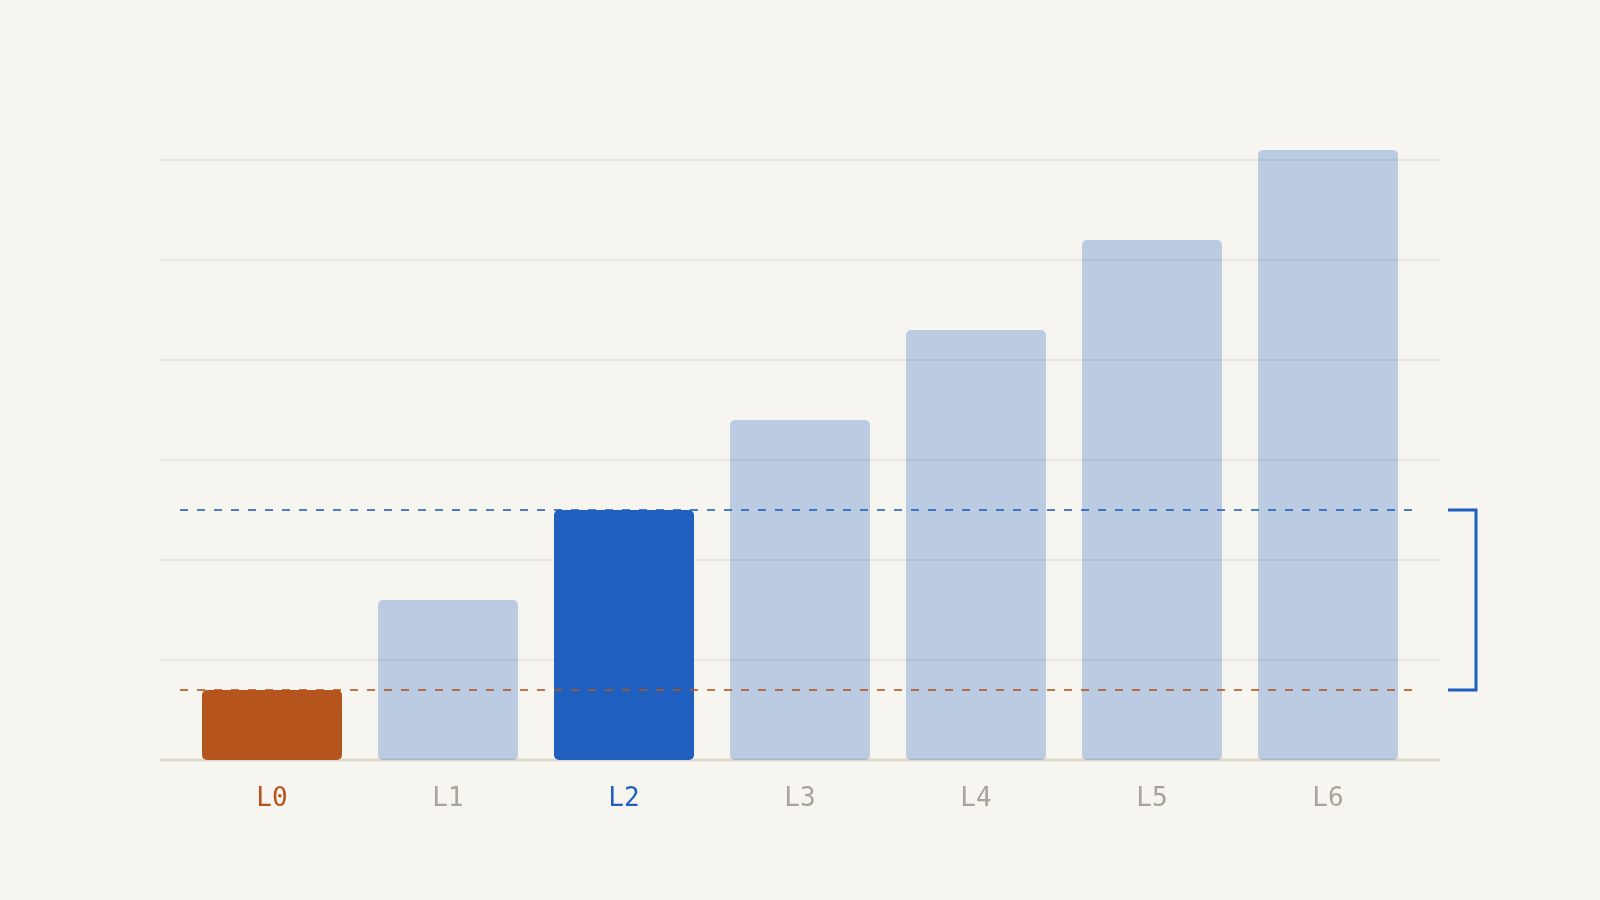
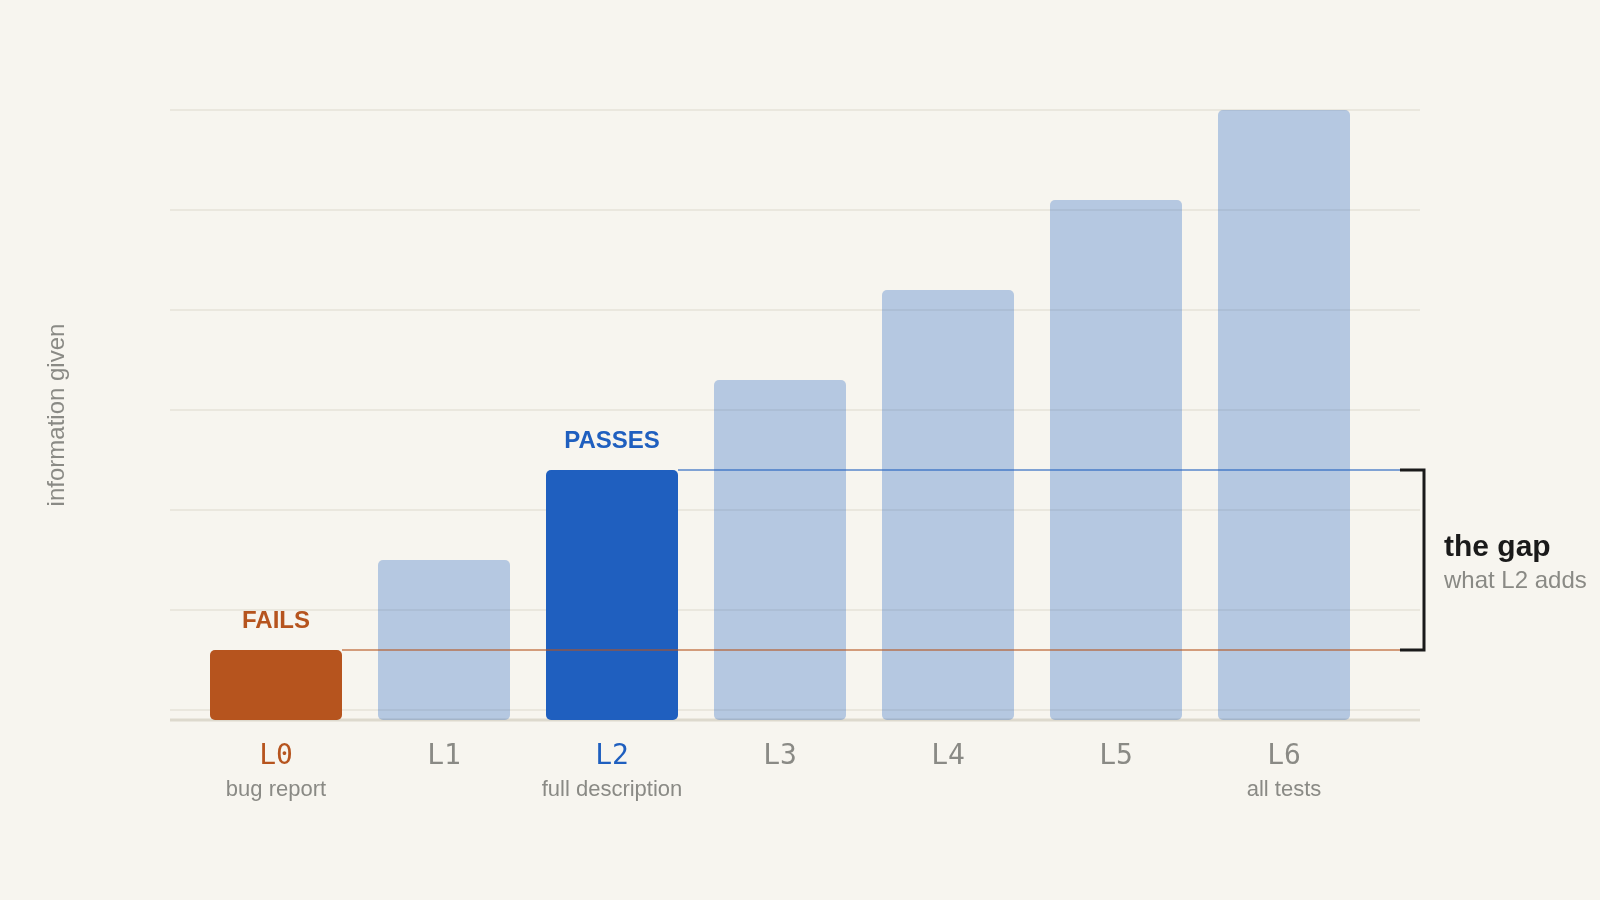
Annotate the hero, move the gap label clear, confine costs to one section
Hero now carries FAILS, PASSES, the gap bracket, per-level sublabels and the
axis label, so it explains itself as a share image instead of reading as bare
bars.

Figure 1: the gap bracket sat over the L3 bar. Widened the viewBox to 812 and
moved the bracket and label past the last bar, so it clearly measures the two
colored reference lines.

Costs now live only in "What it cost to produce". Removed the token and dollar
figures from the summary and the pricing aside from the conclusion.

Stated the token convention explicitly: 2.32 billion tokens of which 2.24
billion were cache reads. n_cache_tokens is a subset of n_input_tokens, which
a least-squares fit of cost against the three counts confirms: treating cache
as additive prices cached tokens at -$0.29/M, while treating it as a subset
gives $0.49/M fresh, $0.20/M cached, $2.44/M output at R2 0.99998.

Changed region(s): [[0.125, 0.1244, 1.0, 0.9022], [0.0312, 0.3733, 0.0625, 0.56], [0.9062, 0.7467, 0.9375, 0.7778]]

diff --git a/src/writings/difficulty-is-an-information-gap.md b/src/writings/difficulty-is-an-information-gap.md
@@ -37,8 +37,7 @@ behavior those tests check. Keep the task when the first fails and the second pa
 Those two runs are the product. The failure shows the task is hard. The pass shows it is solvable
 as written. One prompt cannot show both, and every comparable generation pipeline uses one prompt.
 
-Stage 1 is Go, nine repositories, self-funded: 527 tasks authored, 1,239 runs, 2.32 billion tokens, $519,
-139 certified so far.
+Stage 1 is Go, nine repositories, self-funded: 527 tasks authored and 139 certified so far.
 
 ## The information gap
 
@@ -59,7 +58,7 @@ level is visible. Seven levels, because that is how many distinct kinds of help 
 actually use, ordered from the least specific to the most.
 
 <figure class="fig-inline">
-<svg viewBox="0 0 720 348" role="img" aria-label="Seven ascending bars labelled L0 to L6 showing how much the model is told. L0, a bug report, is marked fails. L2, a full description, is marked passes. A bracket between their tops is labelled the gap.">
+<svg viewBox="0 0 812 348" role="img" aria-label="Seven ascending bars labelled L0 to L6 showing how much the model is told. L0, a bug report, is marked fails. L2, a full description, is marked passes. A bracket at the right measures the distance between their tops and is labelled the gap.">
 <rect x="60" y="256" width="84" height="26" rx="4" fill="var(--chart-2)" opacity="1"><title>L0</title></rect>
 <rect x="150" y="224" width="84" height="58" rx="4" fill="var(--chart-mute)" opacity="0.42"><title>L1</title></rect>
 <rect x="240" y="192" width="84" height="90" rx="4" fill="var(--chart-1)" opacity="1"><title>L2</title></rect>
@@ -67,12 +66,13 @@ actually use, ordered from the least specific to the most.
 <rect x="420" y="128" width="84" height="154" rx="4" fill="var(--chart-mute)" opacity="0.42"><title>L4</title></rect>
 <rect x="510" y="96" width="84" height="186" rx="4" fill="var(--chart-mute)" opacity="0.42"><title>L5</title></rect>
 <rect x="600" y="64" width="84" height="218" rx="4" fill="var(--chart-mute)" opacity="0.42"><title>L6</title></rect>
-<line x1="60" y1="282" x2="700" y2="282" stroke="var(--line)" stroke-width="1.5"/>
-<line x1="144" y1="256" x2="352" y2="256" stroke="var(--chart-2)" stroke-width="1.5" opacity="0.65"/>
-<line x1="324" y1="192" x2="352" y2="192" stroke="var(--chart-1)" stroke-width="1.5" opacity="0.65"/>
-<path d="M352 256 L362 256 L362 192 L352 192" fill="none" stroke="var(--text-2)" stroke-width="1.5"/>
-<text x="374" y="223" fill="var(--text)" font-size="13" font-weight="700" font-family="var(--font-sans)">the gap</text>
-<text x="374" y="240" fill="var(--text-3)" font-size="12" font-family="var(--font-sans)">what L2 adds</text>
+<line x1="60" y1="282" x2="690" y2="282" stroke="var(--line)" stroke-width="1.5"/>
+<line x1="144" y1="256" x2="700" y2="256" stroke="var(--chart-2)" stroke-width="1.5" opacity="0.5"/>
+<line x1="324" y1="192" x2="700" y2="192" stroke="var(--chart-1)" stroke-width="1.5" opacity="0.5"/>
+<path d="M700 256 L712 256 L712 192 L700 192" fill="none" stroke="var(--text-2)" stroke-width="1.5"/>
+<text x="722" y="222" fill="var(--text)" font-size="13" font-weight="700" font-family="var(--font-sans)">the gap</text>
+<text x="722" y="239" fill="var(--text-3)" font-size="12" font-family="var(--font-sans)">what L2</text>
+<text x="722" y="254" fill="var(--text-3)" font-size="12" font-family="var(--font-sans)">adds</text>
 <text x="102" y="302" text-anchor="middle" fill="var(--chart-2)" font-size="13" font-family="var(--font-mono)">L0</text>
 <text x="102" y="320" text-anchor="middle" fill="var(--text-3)" font-size="12" font-family="var(--font-sans)">bug report</text>
 <text x="192" y="302" text-anchor="middle" fill="var(--text-3)" font-size="13" font-family="var(--font-mono)">L1</text>
@@ -345,6 +345,7 @@ asked to produce may already be in its weights.
 
 The table held three surprises.
 
+Of the 2.32 billion tokens, 2.24 billion were cache reads and only 16.9 million were output.
 Output is 0.74% of input. These runs are almost entirely a model reading a repository, so the
 token bill is a reading bill, and anything that shortens what the model must read is worth more
 than anything that shortens what it writes. The 97.4% cache hit rate is what makes the whole
@@ -416,7 +417,7 @@ cheap half.
 
 Stage 1 is Go, nine repositories, in-repo cuts, and one model for 95% of runs. Those are budget
 choices, not findings. This is self-funded, so the bank is small and deep instead of broad. It is
-enough to show the method works and to price it, not enough to claim it generalizes.
+enough to show the method works, not enough to claim it generalizes.
 
 Removing behavior cleanly leans on Go’s package layout and test conventions, so a second language
 is the real test. A certificate may not hold for a model that never took part in screening; right
